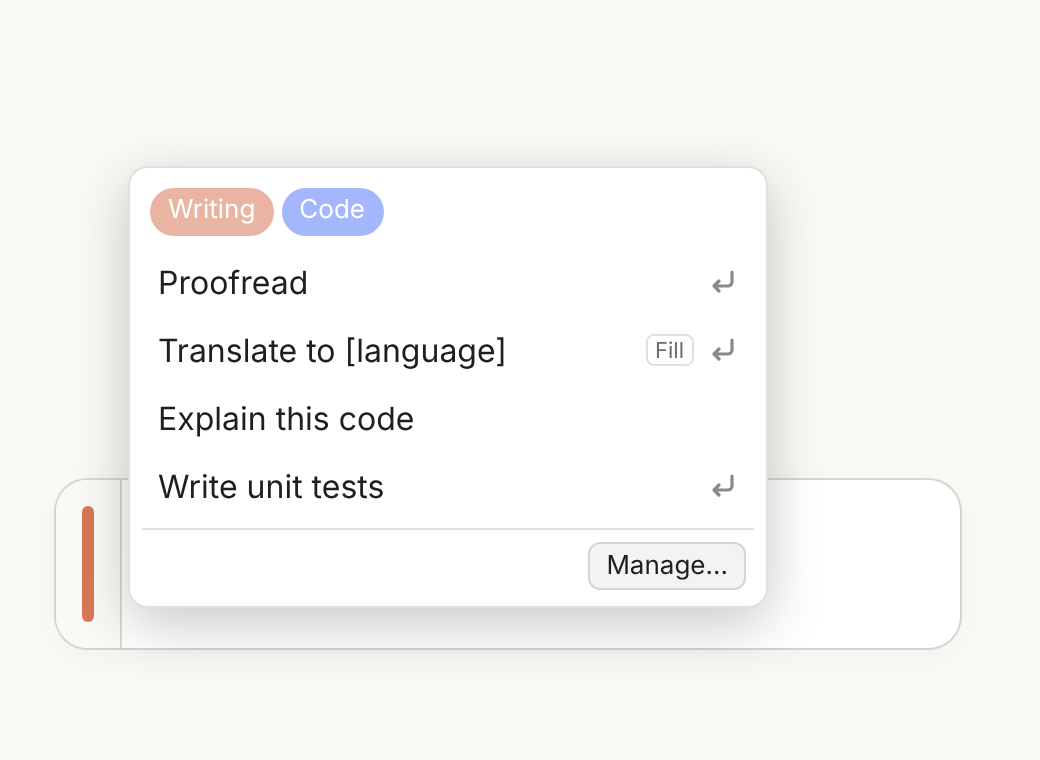
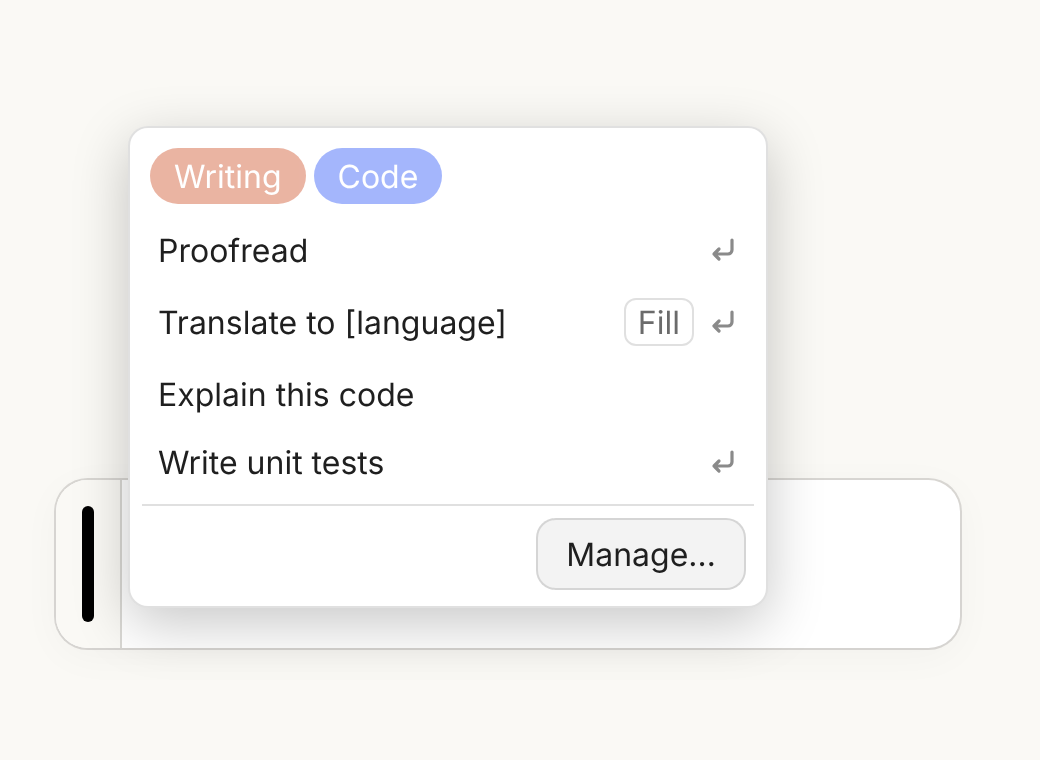
v1.1.0：詳細說明、按鈕與字級統一、把手依網站換主色
- 編輯頁填空／自動送出／標籤與標籤管理頁加「詳細說明」連結，說明視窗以範例為主
- 所有按鈕同一尺寸（高 36、字 16），所有文字 ≥ 16px，對話框標題 22px
- 把手 active 色：Claude 橘、ChatGPT 黑（深色白）、Gemini 藍（深色淺藍）
- 測試新增：字級下限、按鈕同高、說明連結（已用 v1.0.0 反證）

Claude-Session: https://claude.ai/code/session_01EjuJ7uu9zEeY1qC176YcVq

diff --git a/prompt_popout.user.js b/prompt_popout.user.js
@@ -1,7 +1,7 @@
 // ==UserScript==
 // @name               Prompt Popout
 // @namespace          https://github.com/bgtsai
-// @version            1.0.0
+// @version            1.1.0
 // @author             bgtsai
 // @description        Adds a handle to the left of AI chat inputs; hover it to pop out your saved prompts and click one to insert it.
 // @description:zh-TW  在 AI 聊天輸入框左側加一個把手，滑過即彈出已存的提示詞清單，點選即填入。
@@ -37,7 +37,14 @@
 
   const DEFAULT_TAG_BG = '#7071fc';
   const DEFAULT_TAG_FG = '#ffffff';
-  const ACCENT_COLOR = '#d97757';
+  const ACCENT_COLOR = '#d97757';            // 主按鈕色
+  // 把手 hover／清單開啟時的顏色，跟各站主色走（使用者指定）：
+  // Claude 陶土橘；ChatGPT 主色是黑（深色主題反過來用白，否則黑底看不到）；Gemini 沒有明顯主色，用 Google 藍（深色主題用淺藍）
+  const SITE_ACTIVE_COLOR = {
+    claude: { light: '#d97757', dark: '#d97757' },
+    chatgpt: { light: '#000000', dark: '#ffffff' },
+    gemini: { light: '#0b57d0', dark: '#a8c7fa' },
+  };
 
   const CARD_SEARCH_MAX_DEPTH = 12;          // 從輸入框往上找卡片的最大層數
   const CARD_MIN_CORNER_RADIUS_PX = 8;       // 卡片右下角圓角門檻
@@ -105,7 +112,30 @@
       editPrompt: '編輯提示詞',
       fieldTitle: '標題',
       fieldText: '內容',
-      fillHelp: '填空語法：[欄位名稱]、[欄位名稱::預設值]、[欄位名稱](說明)，可併用。',
+      fillHelp: '例如：翻成[語言::英文]',
+      helpLink: '詳細說明',
+      tagsIntro: '標籤用來分類提示詞，在彈出清單上方點選即可篩選。',
+      help: {
+        fill: {
+          title: '填空',
+          intro: '勾選「使用填空」後，內容裡的 [欄位] 會在填入前先問你要填什麼。',
+          syntax: [['[語言]', '欄位'], ['[語言::英文]', '有預設值（兩個冒號）'], ['[語言](要翻成哪種)', '旁邊顯示提示']],
+          example: { label: '範例', before: '把下面翻成[語言::英文]，語氣[語氣]。\n最後用[語言]寫一句摘要。', middle: '填入：語言＝日文、語氣＝正式', after: '把下面翻成日文，語氣正式。\n最後用日文寫一句摘要。' },
+          notes: ['同名欄位只問一次。', '沒勾「使用填空」時，中括號原樣送出。'],
+        },
+        autoSend: {
+          title: '填入後自動送出',
+          intro: '文字填進輸入框後，自動按下送出。清單裡有 ↵ 圖示的就是會自動送出的。',
+          example: { label: '範例', pairs: [['總結這段對話', '勾：點了直接送出'], ['檢查錯字：', '不勾：填入後還要接著貼上文字']] },
+          notes: ['送出鈕 4 秒內一直按不下去（例如還在上傳檔案）就不送，文字留在輸入框。'],
+        },
+        tags: {
+          title: '標籤',
+          intro: '標籤只用來篩選彈出清單，不會被送出、不影響內容。',
+          example: { label: '範例', before: '檢查程式碼　→ 工作、程式\n寫週報　　　→ 工作', middle: '清單上方點「程式」', after: '只剩「檢查程式碼」' },
+          notes: ['同時點多個標籤＝要全部都有才顯示。', '「管理…」→「標籤…」建立標籤、改顏色；編輯提示詞時勾選。', '刪除標籤不會刪除提示詞。'],
+        },
+      },
       useFill: '使用填空',
       autoSend: '填入後自動送出',
       tagsLabel: '標籤',
@@ -153,7 +183,30 @@
       editPrompt: 'Edit prompt',
       fieldTitle: 'Title',
       fieldText: 'Content',
-      fillHelp: 'Fill syntax: [name], [name::default], [name](hint) — may be combined.',
+      fillHelp: 'e.g. Translate into [language::English]',
+      helpLink: 'Details',
+      tagsIntro: 'Tags group your prompts; click them at the top of the pop-out list to filter.',
+      help: {
+        fill: {
+          title: 'Fill-in fields',
+          intro: 'With "Use fill-in fields" ticked, every [field] in the content is asked for before the prompt is inserted.',
+          syntax: [['[language]', 'a field'], ['[language::English]', 'with a default (two colons)'], ['[language](which one)', 'with a hint next to it']],
+          example: { label: 'Example', before: 'Translate this into [language::English], [tone] tone.\nEnd with a one-line summary in [language].', middle: 'Fill in: language = Japanese, tone = formal', after: 'Translate this into Japanese, formal tone.\nEnd with a one-line summary in Japanese.' },
+          notes: ['A field used twice is asked only once.', 'Without "Use fill-in fields", brackets are sent as they are.'],
+        },
+        autoSend: {
+          title: 'Auto-send after insert',
+          intro: 'Presses send for you once the text is in. Prompts marked ↵ in the list do this.',
+          example: { label: 'Example', pairs: [['Summarise this conversation', 'Ticked: sent straight away'], ['Fix the typos in:', 'Not ticked: you still paste the text after it']] },
+          notes: ['If the send button stays disabled for 4 seconds (e.g. a file is still uploading), nothing is sent and the text stays in the box.'],
+        },
+        tags: {
+          title: 'Tags',
+          intro: 'Tags only filter the pop-out list. They are never sent and do not change the content.',
+          example: { label: 'Example', before: 'Review code   → Work, Code\nWeekly report → Work', middle: 'Click "Code" at the top of the list', after: 'Only "Review code" is left' },
+          notes: ['Several tags selected = a prompt must have all of them.', 'Create tags and set colours in Manage… → Tags…; tick them when editing a prompt.', 'Deleting a tag never deletes prompts.'],
+        },
+      },
       useFill: 'Use fill-in fields',
       autoSend: 'Auto-send after insert',
       tagsLabel: 'Tags',
@@ -406,7 +459,7 @@
   transition: background-color 120ms ease;
   z-index: 2;
 }
-.pp-card.pp-active::after { background-color: ${ACCENT_COLOR}; }
+.pp-card.pp-active::after { background-color: var(--pp-active, ${ACCENT_COLOR}); }
 
 #pp-root {
   --pp-bg: #ffffff; --pp-fg: #1f1f1f; --pp-muted: #6b6b6b; --pp-border: rgba(0,0,0,0.12);
@@ -428,8 +481,8 @@
 }
 #pp-root .pp-tagbar { display: flex; flex-wrap: wrap; gap: 4px; padding: 4px 4px 6px; }
 #pp-root .pp-tag {
-  display: inline-block; border: none; border-radius: 999px; padding: 2px 9px; font-size: 13px;
-  line-height: 1.5; cursor: pointer; white-space: nowrap; font-family: inherit;
+  display: inline-block; border: none; border-radius: 999px; padding: 4px 12px; font-size: 16px;
+  line-height: 1.25; cursor: pointer; white-space: nowrap; font-family: inherit;
 }
 #pp-root .pp-tag.pp-off { opacity: 0.55; }
 #pp-root .pp-tag.pp-static { cursor: default; }
@@ -438,16 +491,18 @@
 }
 #pp-root .pp-row:hover { background: var(--pp-hover); }
 #pp-root .pp-row-title { flex: 1; min-width: 0; overflow: hidden; text-overflow: ellipsis; white-space: nowrap; }
-#pp-root .pp-badge { font-size: 11px; color: var(--pp-muted); border: 1px solid var(--pp-border); border-radius: 4px; padding: 0 4px; flex: none; }
+#pp-root .pp-badge { font-size: 16px; line-height: 1.25; color: var(--pp-muted); border: 1px solid var(--pp-border); border-radius: 6px; padding: 1px 6px; flex: none; }
 #pp-root .pp-enter { width: 16px; height: 16px; flex: none; color: #8a8a8a; display: inline-flex; align-items: center; justify-content: center; font-size: 16px; line-height: 1; }
 #pp-root .pp-empty { padding: 10px 8px; color: var(--pp-muted); }
 #pp-root .pp-popup-foot { display: flex; justify-content: flex-end; padding: 6px 4px 2px; border-top: 1px solid var(--pp-border); margin-top: 4px; }
+/* 所有按鈕同一套尺寸（30 第⑲條）：高 36、字 16（03 第⑪條下限）、圓角 10（約邊長 28%，不生硬）。
+   主要／一般／危險只靠顏色區分，不靠大小。 */
 #pp-root .pp-btn {
-  font: inherit; font-size: 14px; padding: 5px 12px; border-radius: 6px; cursor: pointer;
+  display: inline-flex; align-items: center; justify-content: center; height: 36px; box-sizing: border-box;
+  font: inherit; font-size: 16px; line-height: 1; padding: 0 14px; border-radius: 10px; cursor: pointer; white-space: nowrap;
   border: 1px solid var(--pp-border); background: var(--pp-btn-bg); color: var(--pp-fg);
 }
 #pp-root .pp-btn:disabled { opacity: 0.4; cursor: default; }
-#pp-root .pp-btn-small { font-size: 13px; padding: 3px 8px; }
 #pp-root .pp-btn-primary { background: ${ACCENT_COLOR}; border-color: ${ACCENT_COLOR}; color: #fff; }
 #pp-root .pp-btn-danger { color: var(--pp-danger); }
 #pp-root .pp-overlay {
@@ -461,14 +516,28 @@
 }
 /* 面板本身取得焦點只是為了接鍵盤事件，不需要焦點框（瀏覽器預設會畫一圈粗黑框） */
 #pp-root .pp-dialog:focus { outline: none; }
-#pp-root .pp-dialog-head { font-size: 18px; font-weight: 600; padding: 14px 18px; border-bottom: 1px solid var(--pp-border); }
+#pp-root .pp-dialog-head { font-size: 22px; font-weight: 700; padding: 14px 18px; border-bottom: 1px solid var(--pp-border); }
 #pp-root .pp-dialog-body { padding: 14px 18px; overflow-y: auto; flex: 1; min-height: 0; }
 #pp-root .pp-dialog-foot { display: flex; gap: 8px; align-items: center; padding: 12px 18px; border-top: 1px solid var(--pp-border); flex-wrap: wrap; }
 #pp-root .pp-spacer { flex: 1; }
 #pp-root .pp-field { margin-bottom: 12px; }
-#pp-root .pp-label { display: block; margin-bottom: 4px; font-weight: 600; }
-#pp-root .pp-hint { font-size: 13px; color: var(--pp-muted); font-weight: normal; margin-left: 6px; }
-#pp-root .pp-help { font-size: 13px; color: var(--pp-muted); margin: 4px 0 10px; }
+#pp-root .pp-label { font-size: 18px; font-weight: 600; }
+#pp-root .pp-label-row { display: flex; align-items: baseline; gap: 12px; margin-bottom: 6px; }
+#pp-root .pp-hint { font-size: 16px; color: var(--pp-muted); font-weight: normal; margin-left: 6px; }
+#pp-root .pp-help { font-size: 16px; color: var(--pp-muted); margin: 4px 0 10px; }
+/* 「詳細說明」連結：連結藍、底線（03 第⑬節），淺／深色各一 */
+#pp-root .pp-link { font: inherit; font-size: 16px; font-weight: normal; color: #065fd4; text-decoration: underline; background: none; border: none; padding: 0; cursor: pointer; }
+@media (prefers-color-scheme: dark) { #pp-root .pp-link { color: #3ea6ff; } }
+#pp-root .pp-check-row { display: flex; align-items: center; gap: 12px; }
+/* 說明視窗：中性色，範例用等寬字＋淡底跟敘述分開 */
+#pp-root .pp-help-intro { margin: 0 0 14px; }
+#pp-root .pp-help-h { font-size: 18px; font-weight: 600; margin: 16px 0 6px; }
+#pp-root .pp-code { font-family: ui-monospace, Consolas, "Courier New", monospace; font-size: 16px; background: var(--pp-hover); border-radius: 6px; padding: 8px 10px; white-space: pre-wrap; word-break: break-word; }
+#pp-root .pp-arrow { color: var(--pp-muted); margin: 4px 0 4px 10px; }
+#pp-root .pp-syntax { display: grid; grid-template-columns: auto 1fr; gap: 6px 14px; align-items: center; }
+#pp-root .pp-syntax .pp-code { padding: 2px 8px; }
+#pp-root .pp-help ul, #pp-root .pp-help-list { margin: 12px 0 0; padding-left: 20px; }
+#pp-root .pp-help-list li { margin: 4px 0; }
 #pp-root input[type="text"], #pp-root textarea {
   width: 100%; font: inherit; font-size: 16px; padding: 6px 8px; border-radius: 6px;
   border: 1px solid var(--pp-border); background: var(--pp-input-bg); color: var(--pp-fg);
@@ -480,7 +549,7 @@
 #pp-root .pp-mrow { display: flex; align-items: center; gap: 6px; padding: 8px 0; border-bottom: 1px solid var(--pp-border); flex-wrap: wrap; }
 #pp-root .pp-mrow-title { flex: 1 1 160px; min-width: 0; overflow: hidden; text-overflow: ellipsis; white-space: nowrap; }
 #pp-root .pp-mrow-tags { display: flex; gap: 4px; flex-wrap: wrap; }
-#pp-root input[type="color"] { width: 36px; height: 28px; padding: 0; border: 1px solid var(--pp-border); border-radius: 4px; background: none; cursor: pointer; }
+#pp-root input[type="color"] { width: 40px; height: 36px; padding: 0; border: 1px solid var(--pp-border); border-radius: 4px; background: none; cursor: pointer; }
 #pp-root .pp-msg { white-space: pre-wrap; }
 `;
 
@@ -628,6 +697,7 @@
       setVar(card, '--pp-page-bg', bg);
       const dark = luminance(bg) < 0.5;
       setVar(card, '--pp-pill', compositeOver(dark ? 'rgba(255,255,255,0.25)' : 'rgba(0,0,0,0.2)', bg));
+      setVar(card, '--pp-active', SITE_ACTIVE_COLOR[SITE][dark ? 'dark' : 'light']);
     }
   }
 
@@ -842,7 +912,7 @@
     }
 
     popup.appendChild(h('div', { class: 'pp-popup-foot' },
-      h('button', { type: 'button', class: 'pp-btn pp-btn-small', text: T.manageBtn, onclick: () => { closePopup(); showManager(); } })));
+      h('button', { type: 'button', class: 'pp-btn', text: T.manageBtn, onclick: () => { closePopup(); showManager(); } })));
   }
 
   function positionPopup(popup, mouseY) {
@@ -1118,6 +1188,32 @@
     });
   }
 
+
+  // 「詳細說明」：連結樣式的按鈕，點了開獨立說明視窗（說明佔篇幅，平常收起來）
+  function helpLink(topic) {
+    return h('button', { type: 'button', class: 'pp-link', text: T.helpLink, onclick: (e) => { e.preventDefault(); showHelp(topic); } });
+  }
+
+  function showHelp(topic) {
+    const d = T.help[topic];
+    const body = h('div', null, h('p', { class: 'pp-help-intro', text: d.intro }));
+    if (d.syntax) {
+      body.appendChild(h('div', { class: 'pp-syntax' }, d.syntax.map(([code, desc]) => [h('span', { class: 'pp-code', text: code }), h('span', { text: desc })]).flat()));
+    }
+    const ex = d.example;
+    body.appendChild(h('div', { class: 'pp-help-h', text: ex.label }));
+    if (ex.pairs) {
+      // 並列對照（左：內容，右：說明），不用箭頭——箭頭會被讀成「上面變成下面」
+      body.appendChild(h('div', { class: 'pp-syntax' }, ex.pairs.map(([code, desc]) => [h('span', { class: 'pp-code', text: code }), h('span', { text: desc })]).flat()));
+    } else {
+      body.appendChild(h('div', { class: 'pp-code', text: ex.before }));
+      body.appendChild(h('div', { class: 'pp-arrow', text: '↓ ' + ex.middle }));
+      body.appendChild(h('div', { class: 'pp-code', text: ex.after }));
+    }
+    if (d.notes && d.notes.length) body.appendChild(h('ul', { class: 'pp-help-list' }, d.notes.map((n) => h('li', { text: n }))));
+    const dlg = openDialog({ title: d.title, body, onCancel: () => dlg.close(), buttons: [{ text: T.close, primary: true, onClick: () => dlg.close() }] });
+  }
+
   // ───────────────────────── 管理視窗 ─────────────────────────
 
   let managerRefresh = null;
@@ -1142,11 +1238,11 @@
         list.appendChild(h('div', { class: 'pp-mrow' },
           h('span', { class: 'pp-mrow-title', text: p.title || T.untitled, title: String(p.text || '').slice(0, TOOLTIP_MAX_CHARS) }),
           h('span', { class: 'pp-mrow-tags' }, (p.tagIds || []).map((id) => tagMap.get(id)).filter(Boolean).map((t) => tagPill(t))),
-          h('button', { type: 'button', class: 'pp-btn pp-btn-small', text: T.up, disabled: i === 0, onclick: () => move(-1) }),
-          h('button', { type: 'button', class: 'pp-btn pp-btn-small', text: T.down, disabled: i === prompts.length - 1, onclick: () => move(1) }),
-          h('button', { type: 'button', class: 'pp-btn pp-btn-small', text: T.edit, onclick: () => showEditor(p.id) }),
+          h('button', { type: 'button', class: 'pp-btn', text: T.up, disabled: i === 0, onclick: () => move(-1) }),
+          h('button', { type: 'button', class: 'pp-btn', text: T.down, disabled: i === prompts.length - 1, onclick: () => move(1) }),
+          h('button', { type: 'button', class: 'pp-btn', text: T.edit, onclick: () => showEditor(p.id) }),
           h('button', {
-            type: 'button', class: 'pp-btn pp-btn-small pp-btn-danger', text: T.del,
+            type: 'button', class: 'pp-btn pp-btn-danger', text: T.del,
             onclick: async () => {
               if (!(await showConfirm(T.confirmDeletePrompt(p.title || T.untitled)))) return;
               setPrompts(getPrompts().filter((x) => x.id !== p.id));
@@ -1185,14 +1281,15 @@
       return { t, cb };
     });
     const body = h('div', null,
-      h('div', { class: 'pp-field' }, h('label', { class: 'pp-label', text: T.fieldTitle }), titleIn),
-      h('div', { class: 'pp-field' }, h('label', { class: 'pp-label', text: T.fieldText }), textIn,
-        h('div', { class: 'pp-help', text: T.fillHelp })),
-      h('label', { class: 'pp-check' }, fillCb, T.useFill),
-      h('label', { class: 'pp-check' }, sendCb, T.autoSend),
-      tags.length ? h('div', { class: 'pp-field', style: 'margin-top:10px' },
-        h('span', { class: 'pp-label', text: T.tagsLabel }),
-        h('div', { class: 'pp-taglist' }, tagCbs.map(({ t, cb }) => h('label', { class: 'pp-check' }, cb, tagPill(t))))) : null);
+      h('div', { class: 'pp-field' }, h('div', { class: 'pp-label-row' }, h('label', { class: 'pp-label', text: T.fieldTitle })), titleIn),
+      h('div', { class: 'pp-field' }, h('div', { class: 'pp-label-row' }, h('label', { class: 'pp-label', text: T.fieldText })), textIn),
+      // 勾選框與「詳細說明」並列：連結不可放進 <label> 裡，否則點連結會順便切換勾選
+      h('div', { class: 'pp-check-row' }, h('label', { class: 'pp-check' }, fillCb, T.useFill), h('span', { class: 'pp-hint', style: 'margin-left:0', text: T.fillHelp }), helpLink('fill')),
+      h('div', { class: 'pp-check-row' }, h('label', { class: 'pp-check' }, sendCb, T.autoSend), helpLink('autoSend')),
+      h('div', { class: 'pp-field', style: 'margin-top:10px' },
+        h('div', { class: 'pp-label-row' }, h('span', { class: 'pp-label', text: T.tagsLabel }), helpLink('tags')),
+        tags.length ? null : h('div', { class: 'pp-help', style: 'margin:0', text: T.noTags }),
+        h('div', { class: 'pp-taglist' }, tagCbs.map(({ t, cb }) => h('label', { class: 'pp-check' }, cb, tagPill(t))))));
     const save = async () => {
       const text = textIn.value;
       if (!text.trim()) { await showMessage(T.emptyText); textIn.focus(); return; }
@@ -1245,7 +1342,7 @@
           h('span', { class: 'pp-hint', text: T.bgColor }), bgIn,
           h('span', { class: 'pp-hint', text: T.fgColor }), fgIn,
           h('button', {
-            type: 'button', class: 'pp-btn pp-btn-small pp-btn-danger', text: T.del,
+            type: 'button', class: 'pp-btn pp-btn-danger', text: T.del,
             onclick: async () => {
               if (!(await showConfirm(T.confirmDeleteTag(t.name)))) return;
               setTags(getTags().filter((x) => x.id !== t.id));
@@ -1268,7 +1365,9 @@
       refresh();
     };
     nameIn.addEventListener('keydown', (e) => { if (e.key === 'Enter' && !e.isComposing) { e.preventDefault(); add(); } });
-    const body = h('div', null, list,
+    const body = h('div', null,
+      h('div', { class: 'pp-help', style: 'margin:0 0 8px' }, T.tagsIntro, ' ', helpLink('tags')),
+      list,
       h('div', { style: 'display:flex;gap:8px;margin-top:12px' }, nameIn,
         h('button', { type: 'button', class: 'pp-btn', text: T.addBtn, onclick: add })));
     const done = () => { dlg.close(); if (managerRefresh) managerRefresh(); };

diff --git a/tests/regress.js b/tests/regress.js
@@ -154,7 +154,8 @@ async function runSite(engineName, browser, site) {
     check(`${tag} 清單寬 320`, Math.abs(m.width - 320) < 1, m.width);
     check(`${tag} 清單在把手右側 (卡片左+W+4)`, Math.abs(m.left - (cb.left + W + 4)) < 1.5, { left: m.left, expected: cb.left + W + 4 });
     check(`${tag} 空狀態文字`, /還沒有提示詞/.test(m.text), m.text);
-    check(`${tag} 燈條變陶土橘`, (await cardBox(page)).afterBg === 'rgb(217, 119, 87)', (await cardBox(page)).afterBg);
+    const ACTIVE = { claude: 'rgb(217, 119, 87)', chatgpt: 'rgb(0, 0, 0)', gemini: 'rgb(11, 87, 208)' }[site];
+    check(`${tag} 燈條變該站主色`, (await cardBox(page)).afterBg === ACTIVE, (await cardBox(page)).afterBg);
     if (SHOT_DIR && site === 'claude') await page.screenshot({ path: path.join(SHOT_DIR, `${engineName}_${site}_open_empty.png`), clip: { x: cb.left - 10, y: cb.top - 20, width: 420, height: 200 } });
   }
   // Esc 關閉
@@ -213,10 +214,37 @@ async function runSite(engineName, browser, site) {
   await sleep(200);
   check(`${tag} 管理視窗開啟`, await page.evaluate(() => /管理提示詞|Manage/.test(document.body.innerText)));
   if (SHOT_DIR && site === 'claude') await page.screenshot({ path: path.join(SHOT_DIR, `${engineName}_${site}_manager.png`) });
+  // 03 第⑪條：所有可見文字 ≥ 16px；30 第⑲條：所有按鈕同一高度
+  const sizes = await page.evaluate(() => {
+    const els = [...document.querySelectorAll('#pp-root *')].filter((e) => e.offsetParent && [...e.childNodes].some((n) => n.nodeType === 3 && n.textContent.trim()));
+    const small = els.filter((e) => parseFloat(getComputedStyle(e).fontSize) < 16).map((e) => e.className + ':' + getComputedStyle(e).fontSize);
+    const hs = [...new Set([...document.querySelectorAll('#pp-root .pp-btn')].filter((b) => b.offsetParent).map((b) => Math.round(b.getBoundingClientRect().height)))];
+    return { small, hs };
+  });
+  check(`${tag} 管理視窗文字皆 ≥16px`, sizes.small.length === 0, sizes.small.slice(0, 5));
+  check(`${tag} 管理視窗按鈕同高`, sizes.hs.length === 1 && sizes.hs[0] === 36, sizes.hs);
   const before3 = await page.evaluate(() => __store['pp.prompts'].length);
   await page.evaluate(() => { const b = [...document.querySelectorAll('button')].find((x) => /^(新增|New|Add)$/.test(x.innerText.trim())); b.click(); });
   await sleep(200);
   if (SHOT_DIR && site === 'claude') await page.screenshot({ path: path.join(SHOT_DIR, `${engineName}_${site}_edit.png`) });
+  // 編輯頁三個「詳細說明」連結都能開說明視窗，且不會切換勾選框
+  const helpRes = await page.evaluate(async () => {
+    const out = [];
+    const links = [...document.querySelectorAll('#pp-root .pp-link')].filter((x) => x.offsetParent);
+    const cbs0 = [...document.querySelectorAll('#pp-root input[type=checkbox]')].map((c) => c.checked).join();
+    for (const l of links) {
+      l.click(); await new Promise((r) => setTimeout(r, 80));
+      const dlgs = [...document.querySelectorAll('#pp-root .pp-dialog')];
+      const top = dlgs[dlgs.length - 1];
+      out.push({ title: top.querySelector('.pp-dialog-head').innerText, hasCode: !!top.querySelector('.pp-code') });
+      [...top.querySelectorAll('button')].find((b) => /關閉|Close/.test(b.innerText)).click();
+      await new Promise((r) => setTimeout(r, 50));
+    }
+    const cbs1 = [...document.querySelectorAll('#pp-root input[type=checkbox]')].map((c) => c.checked).join();
+    return { out, same: cbs0 === cbs1 };
+  });
+  check(`${tag} 編輯頁 3 個詳細說明都能開、含範例`, helpRes.out.length === 3 && helpRes.out.every((x) => x.hasCode), helpRes.out);
+  check(`${tag} 點詳細說明不切換勾選`, helpRes.same);
   await page.evaluate(() => {
     const ins = [...document.querySelectorAll('input[type=text]')].filter((x) => x.offsetParent); const tas = [...document.querySelectorAll('textarea')].filter((x) => x.offsetParent);
     ins[ins.length - 1].value = 'New one'; tas[tas.length - 1].value = 'body';

diff --git a/docs/SPEC.zh-TW.md b/docs/SPEC.zh-TW.md
@@ -83,7 +83,7 @@
 - 寬 6px（必須是偶數，否則 W 為偶數時無法正中）、`border-radius:999px` 膠囊形、`pointer-events:none`。
 - 兩端半圓的圓心＝卡片左側圓角的圓心：`left = R − 3`、`top = R − 3`、`bottom = R − 3`（px，用取整後的 R）。
 - 平常顏色＝頁面底色疊上 20% 黑（深色頁面改疊 25% 白），換算成不透明色。
-- 滑過把手或清單開啟時：`#d97757`，顏色變化有約 120 ms 過渡。
+- 滑過把手或清單開啟時換成該站主色（v1.1.0）：Claude `#d97757`；ChatGPT 淺色 `#000000`／深色 `#ffffff`；Gemini 淺色 `#0b57d0`／深色 `#a8c7fa`（深淺依頁面底色亮度判斷）。顏色變化有約 120 ms 過渡。
 
 ### 5.5 顏色讀取
 
@@ -155,7 +155,8 @@
 - 半透明黑色遮罩全螢幕、置中白色（深色模式為深灰）面板，寬 min(680px, 100%)，最高 90vh，內容區可捲動；標題列、內容區、底部按鈕列。
 - 遮罩上的鍵盤事件不可冒泡到網站（網站快捷鍵會搶輸入）。點遮罩空白處關閉。
 - 另有：訊息框（一顆確定）、確認框（取消／確定，確定為紅字危險樣式）。
-- 字級：內文與輸入框 16px、說明小字 13～14px、標題 18px。
+- 字級（v1.1.0，依知識庫 03 第⑪條）：任何文字最小 16px；對話框標題 22px 粗體、欄位名稱 18px、內文／說明／標籤膠囊／按鈕 16px。
+- 按鈕（v1.1.0）：全部同一尺寸——高 36px、字 16px、左右內距 14px、圓角 10px；主要（橘底）／一般（框線）／危險（紅字）只靠顏色區分。
 
 ### 8.2 提示詞清單（管理首頁）
 
@@ -205,3 +206,10 @@
 
 - `node --check` 或 acorn 解析無語法錯誤。
 - 無同作用域重複宣告、無未定義識別字。
+
+## 13. 詳細說明（v1.1.0）
+
+- 編輯提示詞頁：「使用填空」「填入後自動送出」兩個勾選框旁、「標籤」標題旁，各一個藍色底線文字鈕「詳細說明」（不可放在 label 裡，點它不能切換勾選）。「使用填空」旁另有一行灰字範例。
+- 標籤管理頁：頁首一行固定說明「標籤用來分類提示詞，在彈出清單上方點選即可篩選。」＋「詳細說明」。
+- 說明視窗：中性色；一句話用途＋（填空才有）語法對照表＋範例（等寬字淡底）＋2～3 條注意事項；只有一顆「關閉」。
+- 原則：簡短，以範例為主（使用者明確要求）。

diff --git a/README.md b/README.md
@@ -8,7 +8,7 @@ A Tampermonkey userscript that adds a slim handle to the left of the chat input 
 
 ## Features
 
-- **Handle on the input card** — the card grows a small block on its left with a pill-shaped handle. It turns orange while you hover or while the list is open.
+- **Handle on the input card** — the card grows a small block on its left with a pill-shaped handle. It takes the site's accent colour (orange on Claude, black on ChatGPT, blue on Gemini) while you hover or while the list is open.
 - **Pop-out list** — opens next to the handle at the height of your mouse pointer. Hover to open, or click (for touch devices).
 - **Fill-in fields** — write `[field]` in a prompt and you are asked for the value before it is inserted.
 - **Auto-send** — optionally press send for you once the text is in.

diff --git a/README.zh-TW.md b/README.zh-TW.md
@@ -8,7 +8,7 @@
 
 ## 功能
 
-- **輸入卡片上的把手**：卡片左側長出一小塊區域，中間是膠囊形把手；滑過或清單開著時變成橘色。
+- **輸入卡片上的把手**：卡片左側長出一小塊區域，中間是膠囊形把手；滑過或清單開著時換成該站主色（Claude 橘、ChatGPT 黑、Gemini 藍）。
 - **彈出清單**：開在把手右側、對齊滑鼠當下的高度。滑過即開，也可以點擊（觸控裝置）。
 - **填空欄位**：提示詞裡寫 `[欄位]`，填入前會先問你要填什麼。
 - **自動送出**：可設定填入後自動按下送出。
